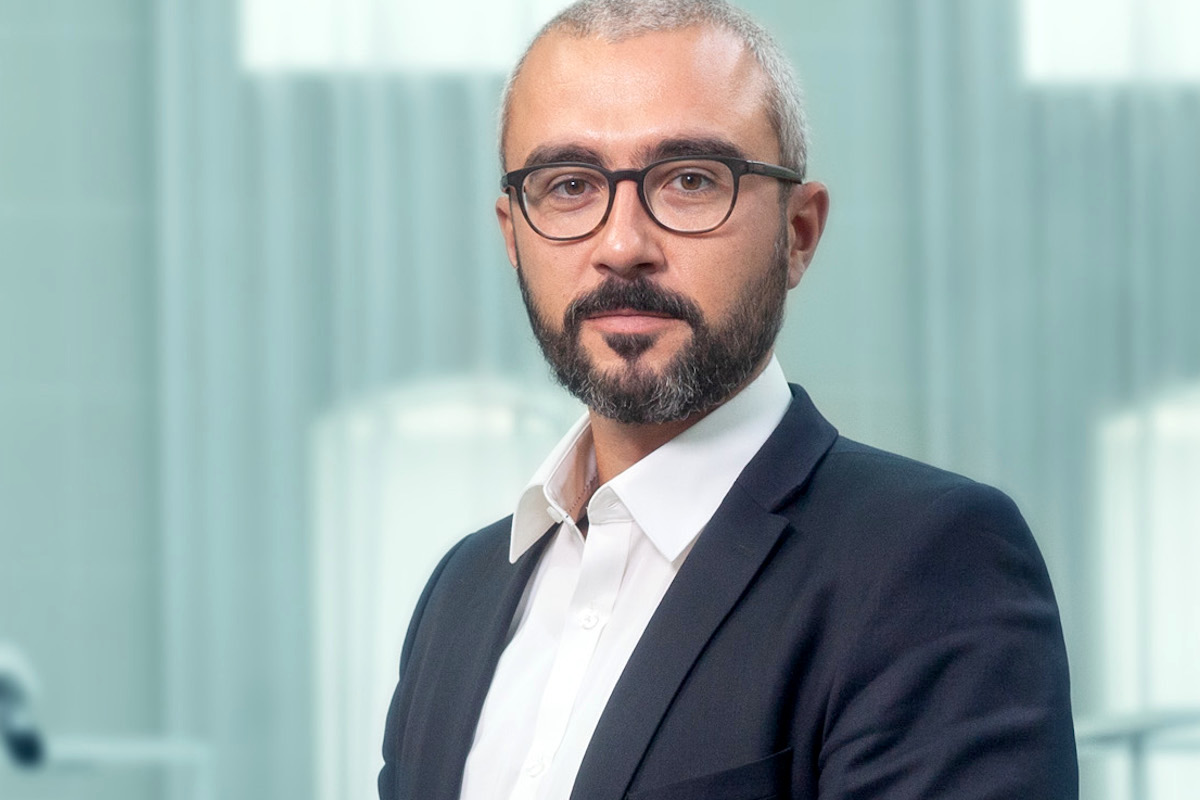
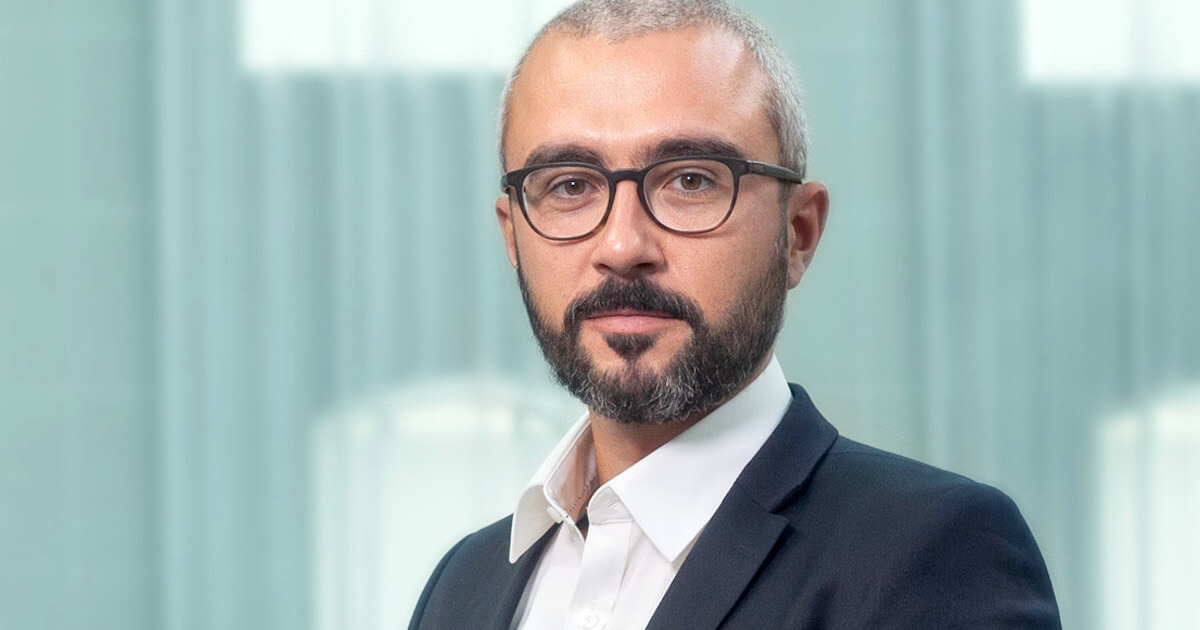
Update Open Graph image

diff --git a/src/components/Meta.svelte b/src/components/Meta.svelte
@@ -18,6 +18,8 @@
 <meta property="og:title" content={title} />
 <meta property="og:description" content={description} />
 <meta property="og:image" content={`${site}/david-klimes-card.jpg`} />
+<meta property="og:image:width" content="1200" />
+<meta property="og:image:height" content="630" />
 
 <!-- Twitter Meta Tags -->
 <meta name="twitter:card" content="summary_large_image" />
